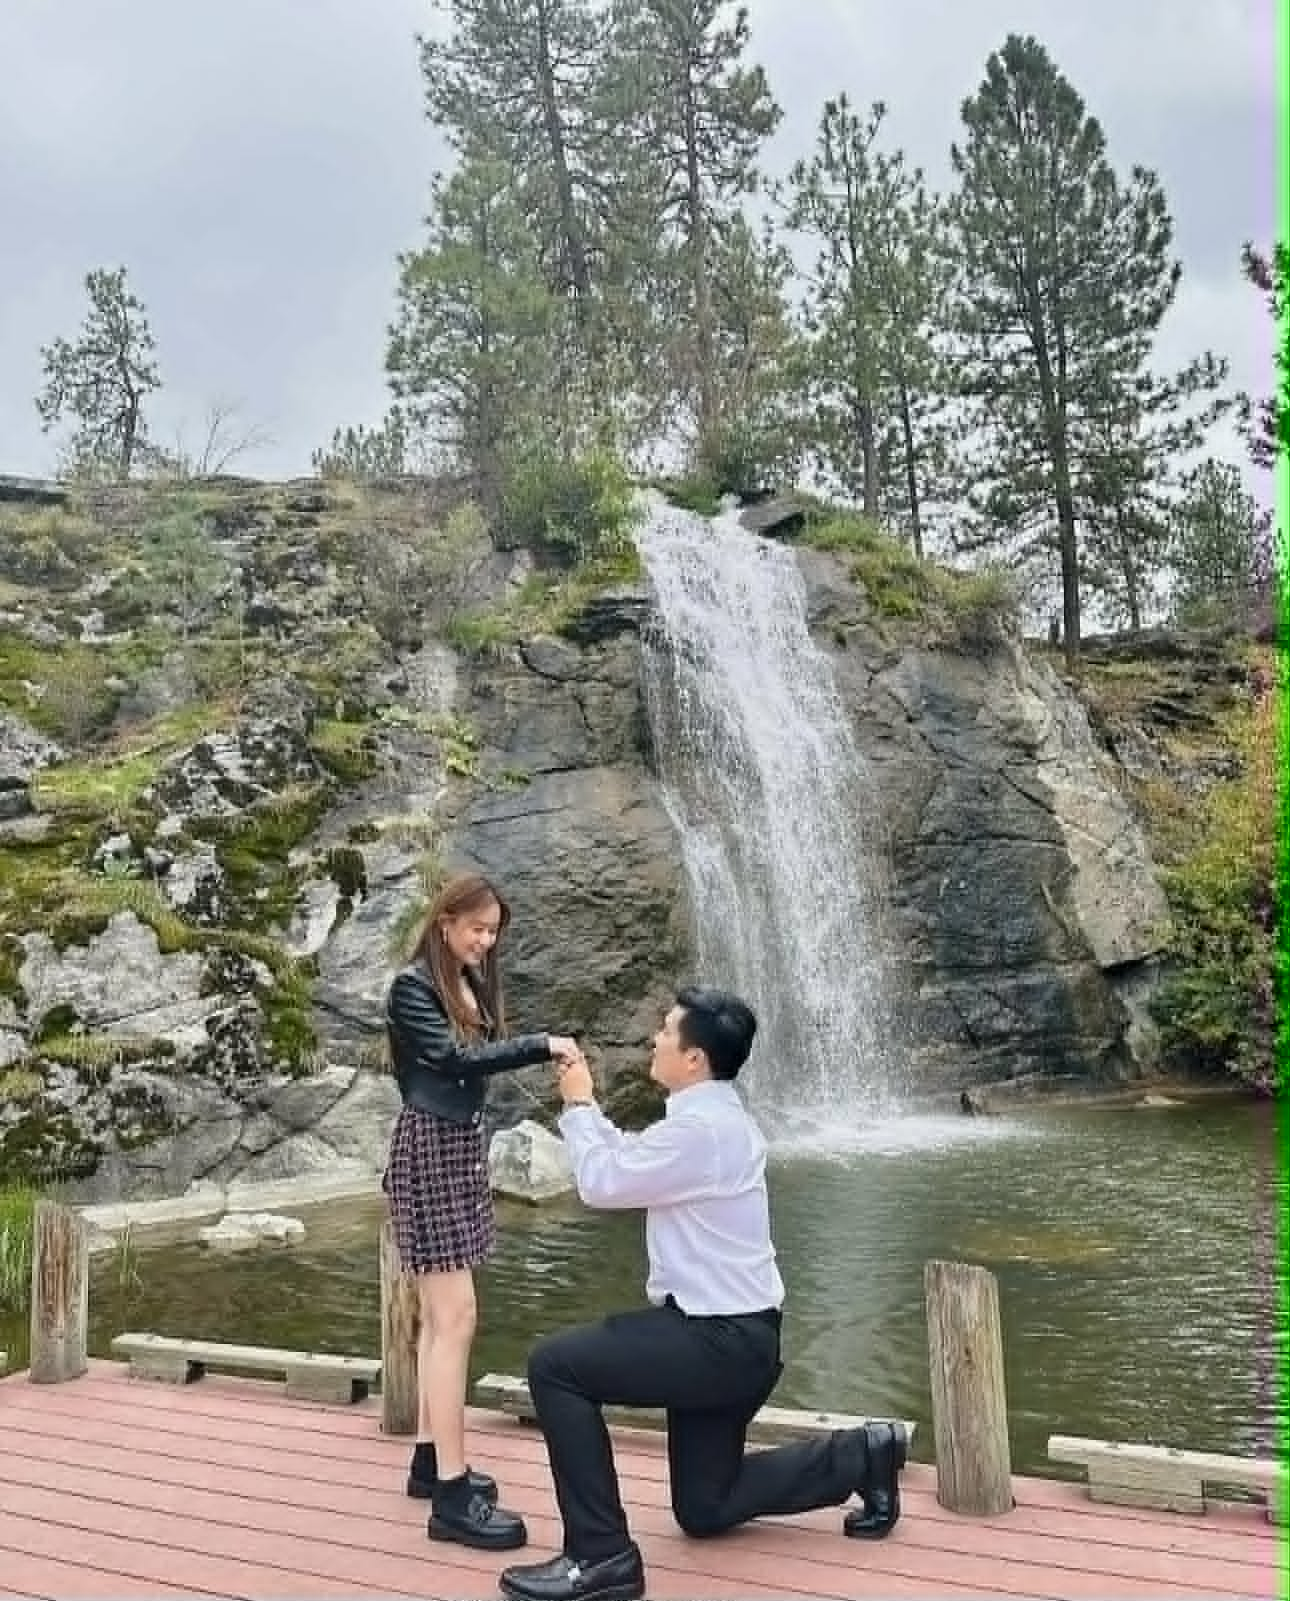
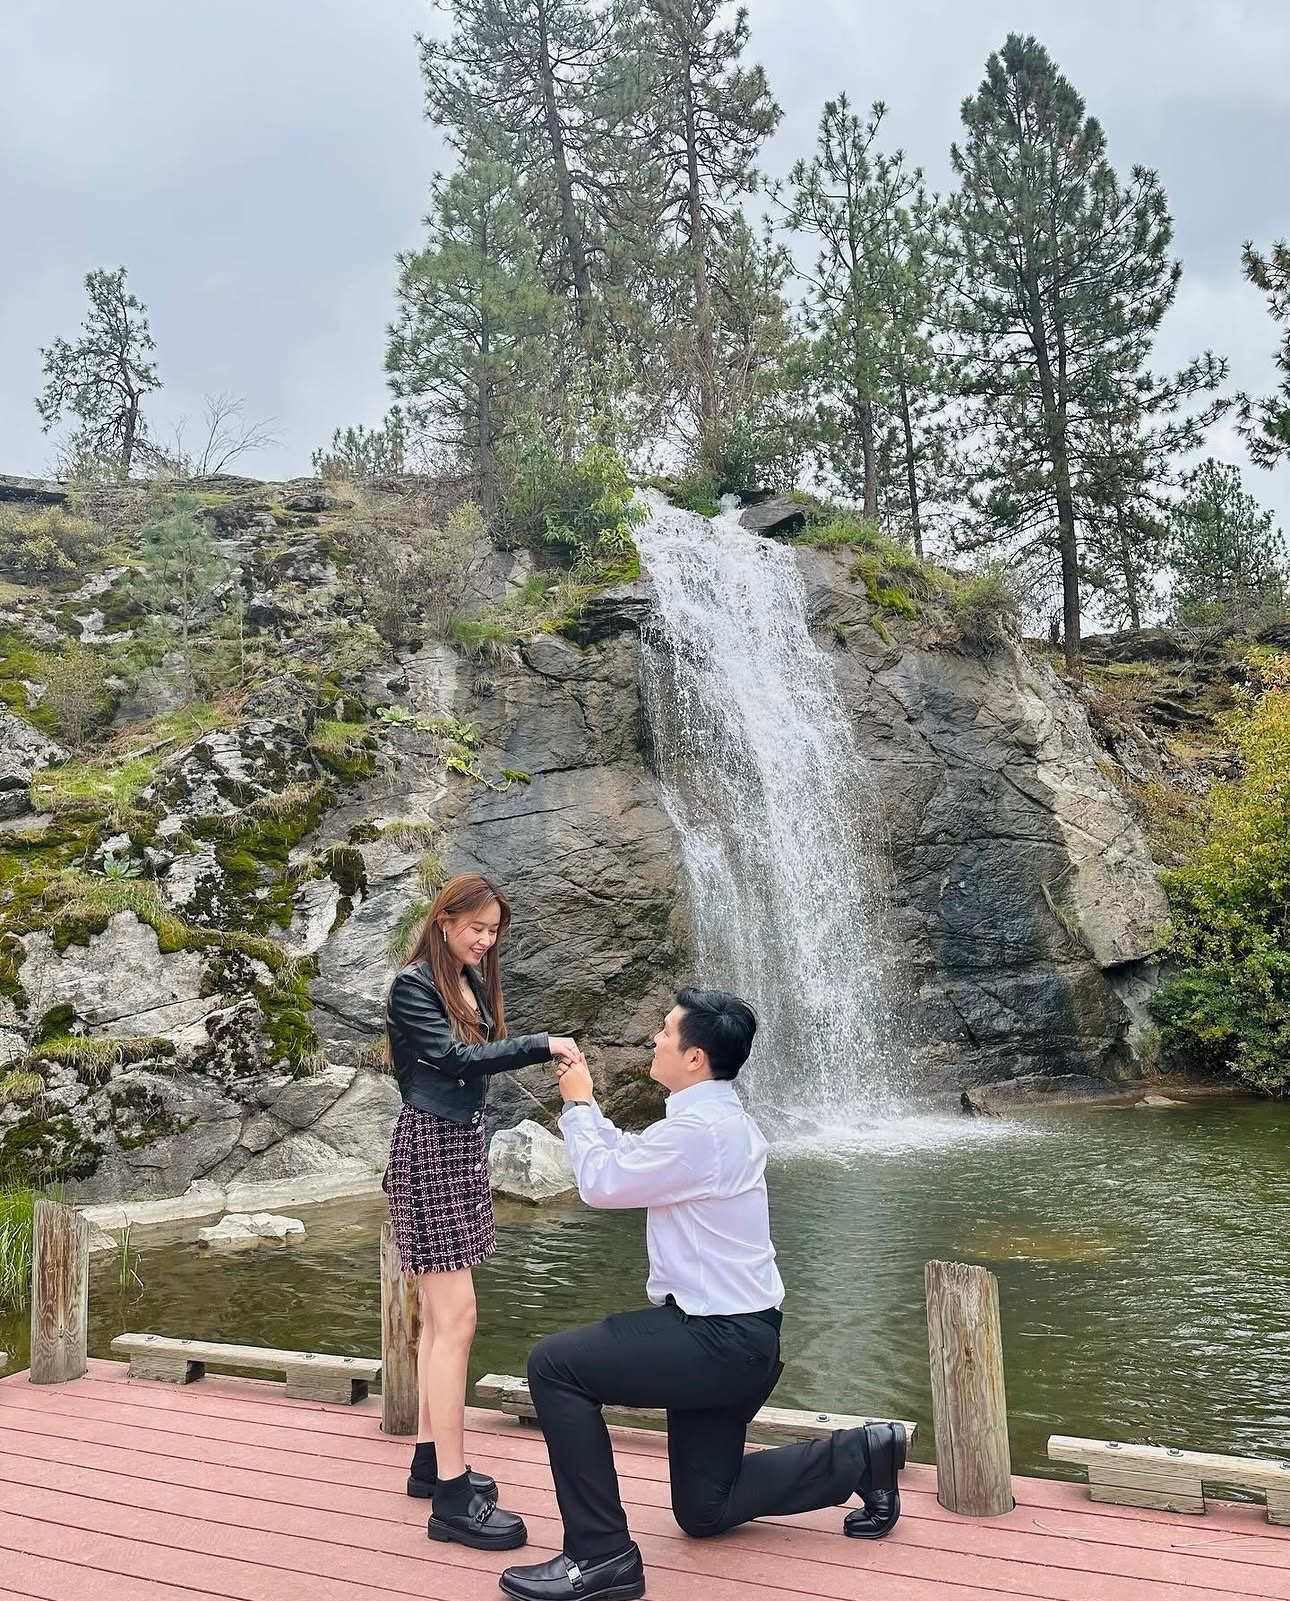
remove captions

diff --git a/src/app/components/RegistrySection.tsx b/src/app/components/RegistrySection.tsx
@@ -16,24 +16,24 @@ export function RegistrySection() {
   const [isOpen, setIsOpen] = useState(false);
 
   return (
-    <section className="relative py-20 sm:py-28 px-6 bg-[#ECE8DF]">
-      <div className="max-w-4xl mx-auto">
+    <section className="relative bg-[#ECE8DF] px-6 py-16 sm:py-20">
+      <div className="mx-auto max-w-3xl">
         <motion.div
           ref={ref}
           initial={{ opacity: 0, y: 30 }}
           animate={isInView ? { opacity: 1, y: 0 } : {}}
           transition={{ duration: 0.8 }}
-          className="overflow-hidden rounded-[30px] border border-[#D9D1C7] bg-[#F4F0E8] shadow-[0_22px_50px_-35px_rgba(26,18,13,0.45)]"
+          className="overflow-hidden rounded-3xl border border-[#D9D1C7] bg-[#F4F0E8] shadow-[0_22px_50px_-35px_rgba(26,18,13,0.45)]"
         >
           <img
             src={registryImage}
             alt="Wedding rings"
-            className="w-full h-[260px] md:h-[340px] object-cover"
+            className="h-[220px] w-full object-cover md:h-[280px]"
           />
 
-          <div className="p-7 md:p-10">
+          <div className="p-6 md:p-8">
             <div className="flex items-center justify-between gap-4">
-              <h2 className="font-['Playfair_Display'] text-5xl md:text-6xl text-[#2D1F1B] leading-none">
+              <h2 className="font-['Playfair_Display'] text-4xl leading-none text-[#2D1F1B] md:text-5xl">
                 Registry
               </h2>
 
@@ -50,7 +50,7 @@ export function RegistrySection() {
               </button>
             </div>
 
-            <p className="mt-5 font-['Inter'] text-lg md:text-[30px] leading-relaxed text-[#5E5249] max-w-3xl">
+            <p className="mt-5 max-w-2xl font-['Inter'] text-base leading-relaxed text-[#5E5249] md:text-lg">
               Your presence at our wedding is the greatest gift of all. If you would like to honor us with a gift, a contribution towards our future together would mean a lot.
             </p>
 
@@ -59,23 +59,23 @@ export function RegistrySection() {
               animate={{
                 height: isOpen ? 'auto' : 0,
                 opacity: isOpen ? 1 : 0,
-                marginTop: isOpen ? 28 : 0,
+                marginTop: isOpen ? 24 : 0,
               }}
               transition={{ duration: 0.35, ease: [0.22, 1, 0.36, 1] }}
               className="overflow-hidden"
             >
-              <div className="space-y-10 border-t border-[#D9D1C7] pt-8">
+              <div className="space-y-8 border-t border-[#D9D1C7] pt-7">
                 <div>
                   <p className="font-['Inter'] text-xs tracking-[0.18em] uppercase text-[#9B9188] mb-3">
                     For U.S. Guests
                   </p>
-                  <h3 className="font-['Inter'] text-3xl font-semibold text-[#3C3129] mb-3">
+                  <h3 className="mb-3 font-['Inter'] text-2xl font-semibold text-[#3C3129]">
                     Venmo
                   </h3>
-                  <p className="font-['Inter'] text-base md:text-[28px] leading-relaxed text-[#5E5249]">
+                  <p className="font-['Inter'] text-base leading-relaxed text-[#5E5249] md:text-lg">
                     We gratefully accept contributions via Venmo at {registry.venmo}.
                   </p>
-                  <div className="mt-5 max-w-[280px] overflow-hidden rounded-2xl border border-[#D9D1C7] bg-white p-2 shadow-sm">
+                  <div className="mt-5 max-w-[220px] overflow-hidden rounded-2xl border border-[#D9D1C7] bg-white p-2 shadow-sm">
                     <img
                       src={venmoQr}
                       alt="Venmo QR code"
@@ -88,13 +88,13 @@ export function RegistrySection() {
                   <p className="font-['Inter'] text-xs tracking-[0.18em] uppercase text-[#9B9188] mb-3">
                     Alternate Option
                   </p>
-                  <h3 className="font-['Inter'] text-3xl font-semibold text-[#3C3129] mb-3">
+                  <h3 className="mb-3 font-['Inter'] text-2xl font-semibold text-[#3C3129]">
                     Zelle
                   </h3>
-                  <p className="font-['Inter'] text-base md:text-[28px] leading-relaxed text-[#5E5249]">
+                  <p className="font-['Inter'] text-base leading-relaxed text-[#5E5249] md:text-lg">
                     If preferred, contributions can also be sent by Zelle to {registry.zelle}.
                   </p>
-                  <div className="mt-5 max-w-[280px] overflow-hidden rounded-2xl border border-[#D9D1C7] bg-white p-2 shadow-sm">
+                  <div className="mt-5 max-w-[220px] overflow-hidden rounded-2xl border border-[#D9D1C7] bg-white p-2 shadow-sm">
                     <img
                       src={zelleQr}
                       alt="Zelle QR code"
@@ -107,10 +107,10 @@ export function RegistrySection() {
                   <p className="font-['Inter'] text-xs tracking-[0.18em] uppercase text-[#9B9188] mb-3">
                     A Note on Gifts
                   </p>
-                  <h3 className="font-['Inter'] text-3xl font-semibold text-[#3C3129] mb-3">
+                  <h3 className="mb-3 font-['Inter'] text-2xl font-semibold text-[#3C3129]">
                     Thank You
                   </h3>
-                  <p className="font-['Inter'] text-base md:text-[28px] leading-relaxed text-[#5E5249]">
+                  <p className="font-['Inter'] text-base leading-relaxed text-[#5E5249] md:text-lg">
                     We are incredibly thankful for your love and support. Having you there matters most.
                   </p>
                 </div>

diff --git a/src/app/components/GallerySection.tsx b/src/app/components/GallerySection.tsx
@@ -21,7 +21,6 @@ interface StoryMilestone {
 interface PreWeddingPhoto {
   image: string;
   alt: string;
-  caption: string;
   className: string;
 }
 
@@ -48,43 +47,36 @@ const preWeddingPhotos: PreWeddingPhoto[] = [
   {
     image: prewed1,
     alt: 'Pre-wedding portrait in winter',
-    caption: 'Proof that love survives winter.',
     className: 'md:col-span-5',
   },
   {
     image: prewed2,
     alt: 'Dramatic pre-wedding portrait',
-    caption: 'She wanted dramatic photos. Mission accomplished.',
     className: 'md:col-span-7',
   },
   {
     image: prewed3,
     alt: 'Outdoor pre-wedding portrait',
-    caption: 'The weather cooperated. Miraculously.',
     className: 'md:col-span-7',
   },
   {
     image: prewed4,
     alt: 'Romantic pre-wedding portrait',
-    caption: "After six years together, he still laughs at her jokes. That's true commitment.",
     className: 'md:col-span-5',
   },
   {
     image: prewed5,
     alt: 'Elegant pre-wedding portrait',
-    caption: 'Romance, but make it look like we did not spend ten minutes fixing the pose.',
     className: 'md:col-span-4',
   },
   {
     image: prewed6,
     alt: 'Joyful pre-wedding portrait',
-    caption: 'The photographer said act natural. This was our most believable attempt.',
     className: 'md:col-span-4',
   },
   {
     image: prewed7,
     alt: 'Classic pre-wedding portrait',
-    caption: 'A soft romantic moment, shortly before someone probably asked where the snacks were.',
     className: 'md:col-span-4',
   },
 ];
@@ -190,7 +182,7 @@ export function GallerySection() {
         <div className="mx-auto mt-14 grid max-w-7xl gap-5 md:grid-cols-12 md:gap-6">
           {preWeddingPhotos.map((photo, index) => (
             <motion.figure
-              key={photo.caption}
+              key={photo.alt}
               initial={{ opacity: 0, y: 34 }}
               whileInView={{ opacity: 1, y: 0 }}
               viewport={{ once: true, amount: 0.2 }}
@@ -205,33 +197,11 @@ export function GallerySection() {
                   className="h-full w-full object-cover transition-transform duration-700 group-hover:scale-[1.03]"
                 />
               </div>
-              <figcaption className="px-1 pb-1 pt-4 font-['Cormorant_Garamond'] text-xl leading-snug text-[#4A3D35] md:text-2xl">
-                {photo.caption}
-              </figcaption>
             </motion.figure>
           ))}
         </div>
       </section>
 
-      <section className="px-6 pb-24 pt-8 text-center md:px-10 md:pb-32">
-        <motion.div
-          initial={{ opacity: 0, y: 30 }}
-          whileInView={{ opacity: 1, y: 0 }}
-          viewport={{ once: true, amount: 0.5 }}
-          transition={{ duration: 1.1, ease: softEase }}
-          className="mx-auto max-w-4xl border-y border-[#D8CEC2] py-14"
-        >
-          <p className="font-['Bodoni_Moda'] text-5xl leading-tight text-[#2D241F] sm:text-6xl md:text-7xl">
-            The Adventure Continues
-          </p>
-          <p className="mt-6 font-['Inter'] text-[11px] uppercase tracking-[0.42em] text-[#8B7B6D]">
-            10.31.2026
-          </p>
-          <p className="mx-auto mt-7 max-w-2xl font-['Cormorant_Garamond'] text-2xl leading-relaxed text-[#6F6258] md:text-3xl">
-            We cannot wait to celebrate the beginning of forever with you.
-          </p>
-        </motion.div>
-      </section>
     </section>
   );
 }

diff --git a/src/app/components/UniqueVenueSection.tsx b/src/app/components/UniqueVenueSection.tsx
@@ -60,7 +60,7 @@ export function UniqueVenueSection() {
           initial={{ opacity: 0, y: 30 }}
           animate={isInView ? { opacity: 1, y: 0 } : {}}
           transition={{ duration: 0.8 }}
-          className="grid lg:grid-cols-5 gap-8 lg:gap-12 items-center"
+          className="grid items-start gap-8 lg:grid-cols-5 lg:gap-12"
         >
           {/* Left: Image */}
           <motion.div
